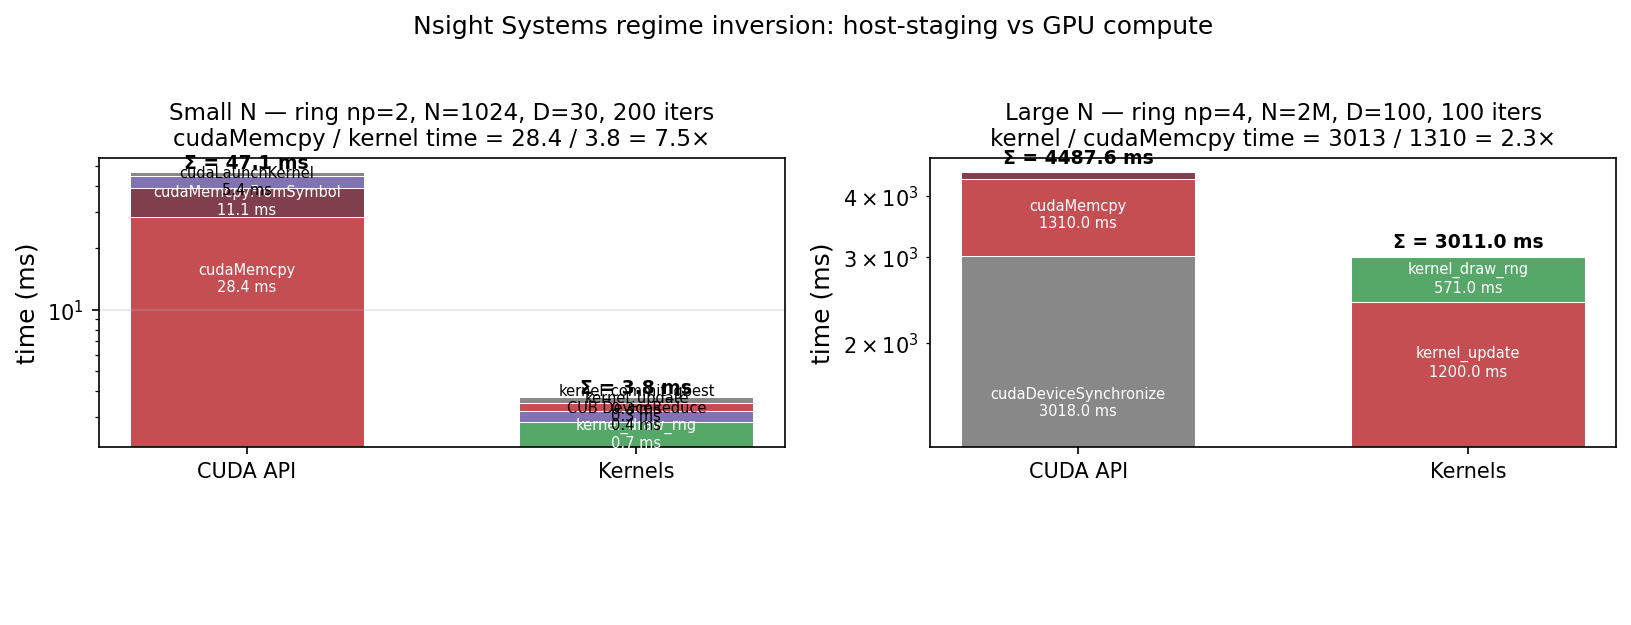
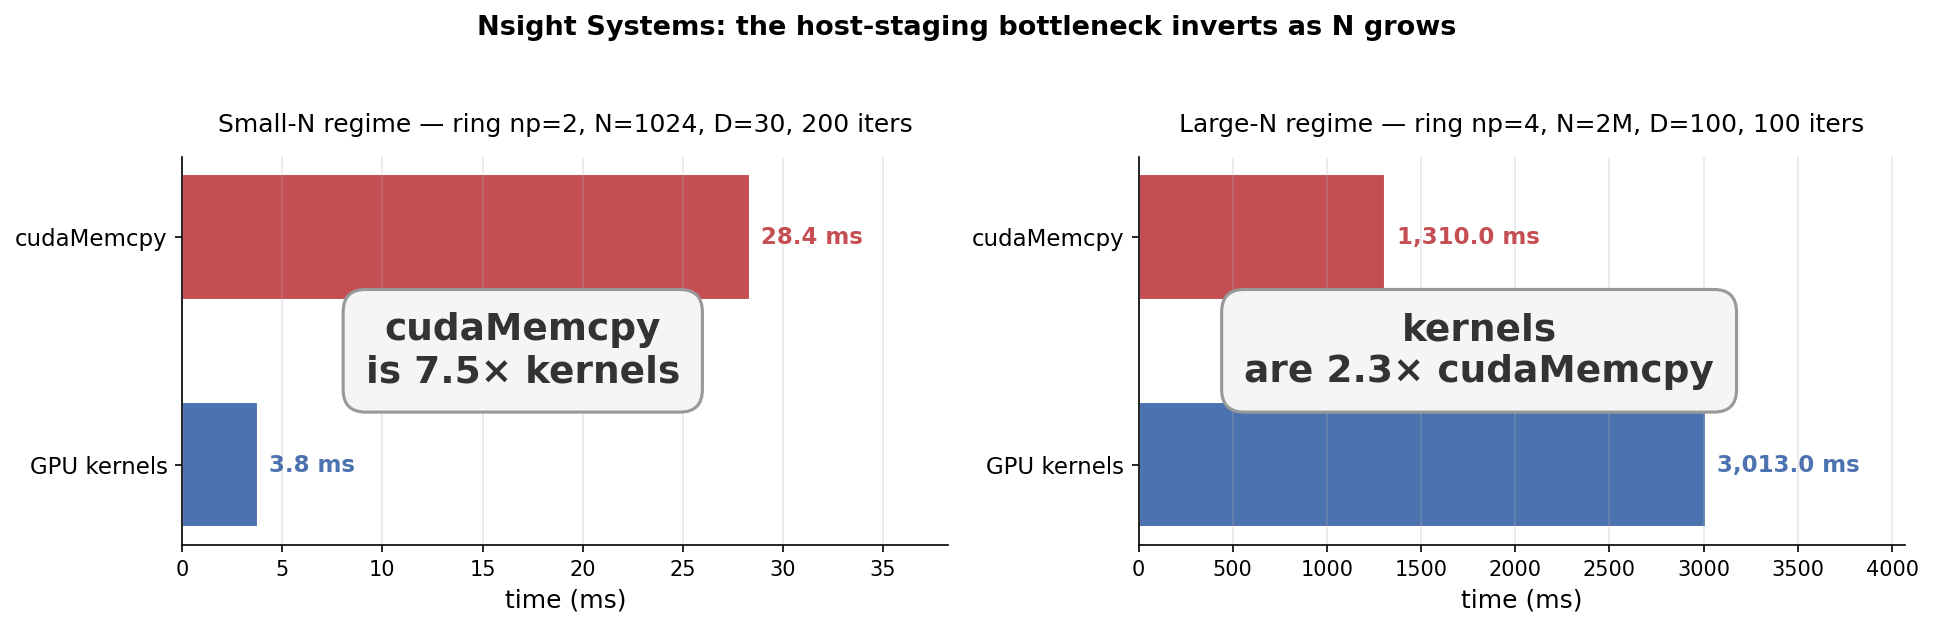
Redesign Nsight comparison chart for readability
The previous version used log-scale stacked bars with text labels embedded
in each segment; the log scale broke proportional comparison and the
inline labels were cramped at LaTeX print sizes.

New design: each panel has just two horizontal bars (cudaMemcpy total,
GPU kernel total) on a per-panel linear x-axis so the within-regime
ratio is visible at a glance. The headline ratio (7.5x small-N,
2.3x large-N) sits in a boxed annotation inside each panel as the
visual focus. Numeric values are annotated at the right end of each bar.

Per-component breakdown is dropped from this chart since the §3.7 table
in M4_REPORT.md already lists every kernel and API call with its time.
The chart's job is the inversion story; the table's job is the detail.

Caption in §3.7 updated to match.

Files:
- bench/plot_nsight_comparison.py        - rewritten with simpler 2-bar layout
- bench/fig_nsight_comparison.png        - regenerated
- bench/M4_REPORT.md §3.7                 - caption rewritten

diff --git a/bench/plot_nsight_comparison.py b/bench/plot_nsight_comparison.py
@@ -1,17 +1,20 @@
 #!/usr/bin/env python3
-"""Nsight CUDA-API and kernel breakdowns at two regimes — the inversion story.
+"""Nsight regime inversion: host-staging dominates at small N; GPU compute
+dominates at large N.
 
-Reads the canonical numbers from bench/nsys_summary.txt (small-N M4 baseline)
-and bench/nsys_summary_largeN.txt. Rather than parsing those text files,
-numbers are hardcoded below — they are stable artifacts of fixed slurm runs
-and are already cited verbatim in §3.7 of bench/M4_REPORT.md.
+Reads canonical numbers from bench/nsys_summary.txt (small-N M4 baseline)
+and bench/nsys_summary_largeN.txt (Phase H large N). The numbers are
+hardcoded here because they are stable artifacts of fixed slurm runs and
+already cited in §3.7 of bench/M4_REPORT.md.
 
-Writes bench/fig_nsight_comparison.png as a 2-panel side-by-side figure.
+Writes bench/fig_nsight_comparison.png as a 2-panel figure. Each panel
+shows the same two horizontal bars: total cudaMemcpy time, total GPU
+kernel time. Linear x-axis per panel (so the within-regime ratio is
+visible at a glance). The headline ratio is the dominant annotation.
 
-Left panel: small-N regime (ring np=2, N=1024, D=30, iters=200).
-            cudaMemcpy = 7.5× kernel time.
-Right panel: large-N regime (ring np=4, N=2M, D=100, iters=100).
-             Kernel time = 2.3× cudaMemcpy.
+The per-component breakdown (kernel_eval_and_pbest, kernel_update, etc.)
+lives in the §3.7 table in M4_REPORT.md; this chart's job is to show
+the inversion.
 """
 
 import os
@@ -22,82 +25,92 @@ HERE = os.path.dirname(os.path.abspath(__file__))
 sys.path.insert(0, HERE)
 from _plot_style import STYLE
 
-# ---- regime numbers (milliseconds) ----------------------------------
-SMALL_N_API = [          # bench/nsys_summary.txt, rank 0
-    ("cudaMemcpy",            28.35, "#C44E52"),
-    ("cudaMemcpyFromSymbol",  11.07, "#7F3F4D"),  # one-time startup
-    ("cudaLaunchKernel",       5.41, "#8172B2"),
-    ("cudaEventRecord",        2.27, "#888888"),
-]
-SMALL_N_KERN = [
-    ("kernel_eval_and_pbest",  2.15, "#4C72B0"),
-    ("kernel_draw_rng",        0.67, "#55A868"),
-    ("CUB DeviceReduce",       0.38, "#8172B2"),
-    ("kernel_update",          0.31, "#C44E52"),
-    ("kernel_commit_gbest",    0.26, "#888888"),
-]
+# ---- totals at each regime (milliseconds) -------------------------
+# Small-N M4 baseline (ring np=2, N=1024, D=30, 200 iters, rank 0)
+SMALL_N_CUDAMEMCPY_MS = 28.35       # sum of cudaMemcpy column from nsys
+SMALL_N_KERNEL_MS     = 3.77        # sum of GPU kernel time
+SMALL_N_LABEL = "ring np=2, N=1024, D=30, 200 iters"
 
-LARGE_N_API = [          # bench/nsys_summary_largeN.txt, rank 0
-    ("cudaDeviceSynchronize", 3018.0, "#888888"),  # the pre-callback drains
-    ("cudaMemcpy",            1310.0, "#C44E52"),
-    ("cudaMemcpyFromSymbol",   154.0, "#7F3F4D"),  # one-time startup
-    ("cudaLaunchKernel",         5.65, "#8172B2"),
-]
-LARGE_N_KERN = [
-    ("kernel_eval_and_pbest", 1224.0, "#4C72B0"),
-    ("kernel_update",         1200.0, "#C44E52"),
-    ("kernel_draw_rng",        571.0, "#55A868"),
-    ("kernel_curand_init",      16.0, "#888888"),  # one-time startup
-]
+# Large-N (ring np=4, N=2M, D=100, 100 iters, rank 0)
+LARGE_N_CUDAMEMCPY_MS = 1310.0
+LARGE_N_KERNEL_MS     = 3013.0
+LARGE_N_LABEL = "ring np=4, N=2M, D=100, 100 iters"
+
+C_CUDA   = STYLE["fc_color"]      # red — host-staging cost
+C_KERNEL = STYLE["ring_color"]    # blue — productive GPU compute
 
 
-def draw_stacked(ax, api_data, kern_data, title, headline):
-    """Two stacked bars: 'CUDA API' on the left, 'Kernels' on the right.
-    Each bar made of (label, ms, color) tuples stacked from bottom.
-    Annotate each segment whose share is >5% of the bar's total."""
-    bar_x = [0, 1]
-    bar_labels = ["CUDA API", "Kernels"]
-    data_sets = [api_data, kern_data]
+def draw_panel(ax, label_top, label_bottom, val_top, val_bottom,
+               headline, regime_title, units="ms"):
+    """One panel: two horizontal bars (top = cudaMemcpy, bottom = kernel)
+    with values annotated at the right end of each bar and the headline
+    ratio drawn as the dominant text inside the panel."""
+    y = [1, 0]
+    vals = [val_top, val_bottom]
+    colors = [C_CUDA, C_KERNEL]
+    labels = [label_top, label_bottom]
 
-    for x, label, data in zip(bar_x, bar_labels, data_sets):
-        bottom = 0.0
-        total = sum(v for _, v, _ in data)
-        for name, v, color in data:
-            ax.bar(x, v, bottom=bottom, color=color, width=0.6,
-                   edgecolor="white", linewidth=0.5)
-            if v / total > 0.05:
-                ax.text(x, bottom + v / 2.0, f"{name}\n{v:.1f} ms",
-                        ha="center", va="center",
-                        fontsize=7,
-                        color="white" if v / total > 0.15 else "black")
-            bottom += v
-        ax.text(x, bottom * 1.04, f"Σ = {total:.1f} ms",
-                ha="center", fontsize=9, fontweight="bold")
+    ax.barh(y, vals, color=colors, height=0.55, edgecolor="white", linewidth=1)
 
-    ax.set_xticks(bar_x)
-    ax.set_xticklabels(bar_labels, fontsize=STYLE["tick_label_size"])
-    ax.set_ylabel("time (ms)", fontsize=STYLE["axis_label_size"])
-    ax.set_title(f"{title}\n{headline}",
-                 fontsize=STYLE["panel_title_size"])
-    ax.tick_params(axis="y", labelsize=STYLE["tick_label_size"])
-    ax.grid(alpha=STYLE["grid_alpha"], axis="y")
-    ax.set_yscale("log")
+    # Numeric annotation at the right end of each bar
+    x_max = max(vals)
+    for yi, v, color in zip(y, vals, colors):
+        ax.text(v + x_max * 0.02, yi,
+                f"{v:,.1f} {units}",
+                va="center", ha="left",
+                fontsize=11, fontweight="bold", color=color)
+
+    ax.set_yticks(y)
+    ax.set_yticklabels(labels, fontsize=11)
+    ax.set_xlim(0, x_max * 1.35)        # headroom for the right-end label
+    ax.set_xlabel(f"time ({units})", fontsize=STYLE["axis_label_size"])
+    ax.tick_params(axis="x", labelsize=STYLE["tick_label_size"])
+    ax.grid(alpha=STYLE["grid_alpha"], axis="x")
+
+    # Headline ratio centered in the panel — the visual hook
+    ax.text(x_max * 0.6, 0.5, headline,
+            ha="center", va="center",
+            fontsize=18, fontweight="bold",
+            color="#333",
+            bbox=dict(boxstyle="round,pad=0.6",
+                      facecolor="#F5F5F5", edgecolor="#999",
+                      linewidth=1.5))
+
+    ax.set_title(regime_title, fontsize=STYLE["panel_title_size"] + 1,
+                 pad=12)
+
+    # Hide top + right spines for cleaner look
+    for spine in ("top", "right"):
+        ax.spines[spine].set_visible(False)
 
 
-fig, (ax_l, ax_r) = plt.subplots(1, 2, figsize=(11, 5))
+fig, (ax_l, ax_r) = plt.subplots(1, 2, figsize=(13, 4))
 
-draw_stacked(
-    ax_l, SMALL_N_API, SMALL_N_KERN,
-    title="Small N — ring np=2, N=1024, D=30, 200 iters",
-    headline=r"cudaMemcpy / kernel time = 28.4 / 3.8 = 7.5×")
+ratio_small = SMALL_N_CUDAMEMCPY_MS / SMALL_N_KERNEL_MS
+draw_panel(
+    ax_l,
+    label_top="cudaMemcpy",
+    label_bottom="GPU kernels",
+    val_top=SMALL_N_CUDAMEMCPY_MS,
+    val_bottom=SMALL_N_KERNEL_MS,
+    headline=f"cudaMemcpy\nis {ratio_small:.1f}× kernels",
+    regime_title=f"Small-N regime — {SMALL_N_LABEL}",
+)
 
-draw_stacked(
-    ax_r, LARGE_N_API, LARGE_N_KERN,
-    title="Large N — ring np=4, N=2M, D=100, 100 iters",
-    headline=r"kernel / cudaMemcpy time = 3013 / 1310 = 2.3×")
+ratio_large = LARGE_N_KERNEL_MS / LARGE_N_CUDAMEMCPY_MS
+draw_panel(
+    ax_r,
+    label_top="cudaMemcpy",
+    label_bottom="GPU kernels",
+    val_top=LARGE_N_CUDAMEMCPY_MS,
+    val_bottom=LARGE_N_KERNEL_MS,
+    headline=f"kernels\nare {ratio_large:.1f}× cudaMemcpy",
+    regime_title=f"Large-N regime — {LARGE_N_LABEL}",
+)
 
-fig.suptitle("Nsight Systems regime inversion: host-staging vs GPU compute",
-             y=1.02, fontsize=STYLE["panel_title_size"] + 1)
+fig.suptitle(
+    "Nsight Systems: the host-staging bottleneck inverts as N grows",
+    y=1.04, fontsize=STYLE["panel_title_size"] + 2, fontweight="bold")
 fig.tight_layout()
 OUT = os.path.join(HERE, "fig_nsight_comparison.png")
 fig.savefig(OUT, dpi=STYLE["dpi"], bbox_inches="tight")

diff --git a/bench/M4_REPORT.md b/bench/M4_REPORT.md
@@ -269,7 +269,7 @@ Levy at D=30 and D=100 still hits machine epsilon (~7.6e-15) under multi-island 
 
 *(`bench/nsys_largeN.sh`, slurm job 88018. Configuration: ring np=4, N=2M, D=100, iters=100, sync=25, m=20971. Data: `bench/trace_largeN_rank_{0..3}.nsys-rep`, summary: `bench/nsys_summary_largeN.txt`. Figure: `bench/fig_nsight_comparison.png` (produced by `bench/plot_nsight_comparison.py`). Compare against Appendix B.4 which profiled the same code at N=1024.)*
 
-![Nsight Systems regime inversion. Left: small-N M4 baseline (ring np=2, N=1024, D=30, 200 iters) — cudaMemcpy total is 28.4 ms, dominating the 3.8 ms of GPU kernel time by 7.5×. Right: large-N regime (ring np=4, N=2M, D=100, 100 iters) — GPU kernel time is now 3,013 ms, exceeding the 1,310 ms of cudaMemcpy by 2.3×. Host-staging is no longer the bottleneck once N is in the millions; the cudaDeviceSynchronize segments in the large-N CUDA-API column are the pre-sync pipeline drains, not productive work.](fig_nsight_comparison.png)
+![Nsight Systems regime inversion. Each panel shows the same two bars (total cudaMemcpy time vs total GPU kernel time) on a per-panel linear x-axis so the within-regime ratio is immediately visible. Left: small-N M4 baseline — cudaMemcpy 7.5× kernels (host-staging is the bottleneck). Right: large-N regime — kernels 2.3× cudaMemcpy (compute dominates; the host-staging cost has been amortized). The per-component breakdown (which kernels, which API calls) is in the table at the top of §3.7. Figure: `bench/fig_nsight_comparison.png` from `bench/plot_nsight_comparison.py`.](fig_nsight_comparison.png)
 
 CUDA API breakdown (rank 0):
 